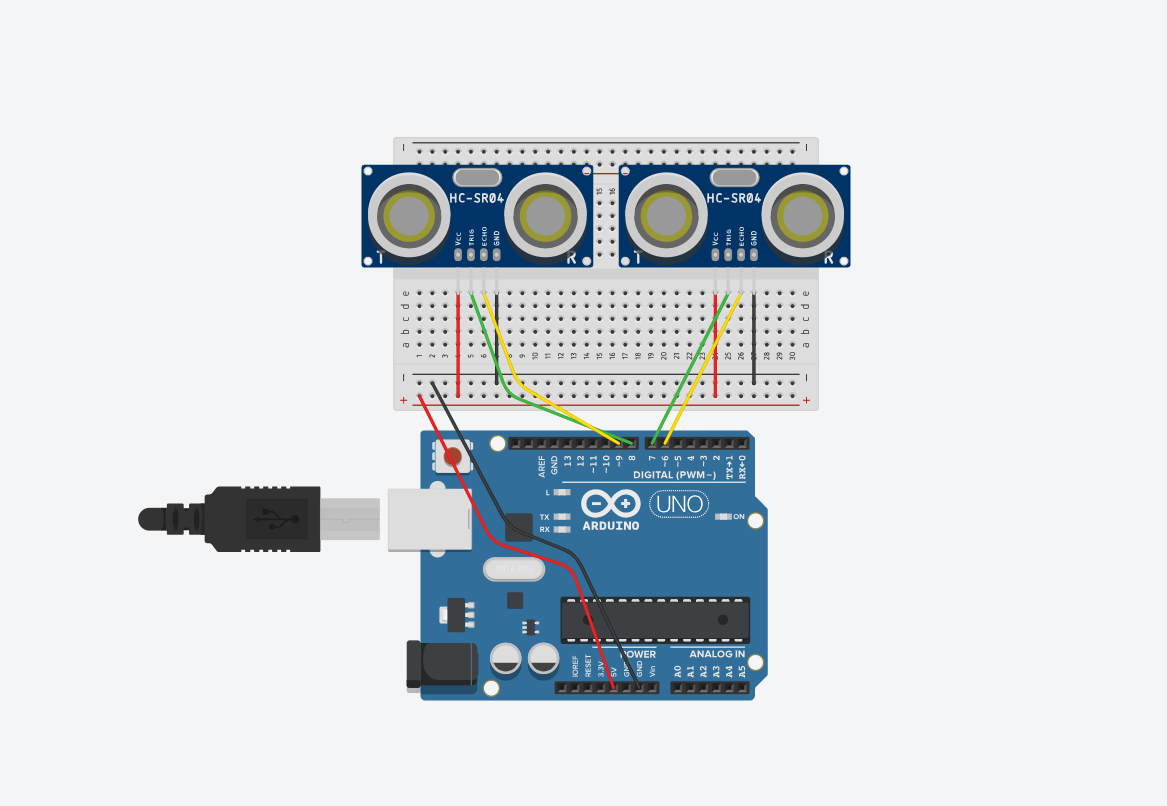
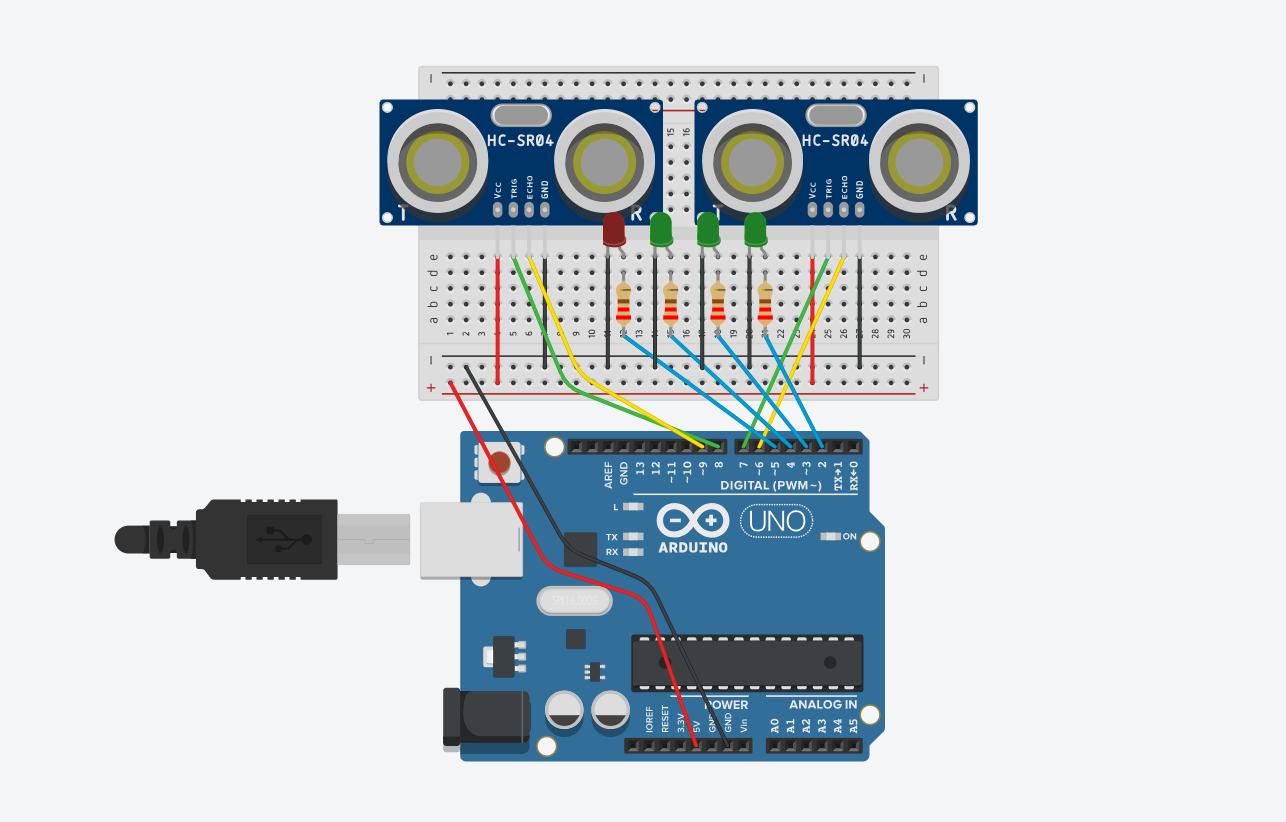
Documentation, sensor code

Changed region(s): [[0.0925, 0.062, 0.7712, 0.9305]]

diff --git a/ArduinoReceptor/src/main.cpp b/ArduinoReceptor/src/main.cpp
@@ -1,18 +1,90 @@
 #include <Arduino.h>
 
-// put function declarations here:
-int myFunction(int, int);
+const int TRIG_PIN1 = 7;
+const int TRIG_PIN2 = 8;
+const int ECHO_PIN1 = 6;
+const int ECHO_PIN2 = 9;
+const int BAUD_RATE = 9600;
+double currVelocity = 0.0;
+double velocityBuffer[10];
+
+void startUltrasonicSensor(int trigPin, int echoPin);
+long readUltrasonicSensor(int trigPin, int echoPin);
+
+/*
+* All these functions from here will need to be implemented in ROS2 system.
+* For now they will be all implemented in arduino.
+*/ 
+int pathPlanning(double leftSensorDistance, double rightSensorDistance);
+double calculateVelocity(double velocityBuffer[]);
+void send2ROS2();
+char * receiveFromROS2();
 
 void setup() {
-  // put your setup code here, to run once:
-  int result = myFunction(2, 3);
+  pinMode(TRIG_PIN1, OUTPUT);
+  pinMode(TRIG_PIN2, OUTPUT);
+  pinMode(ECHO_PIN1, INPUT);
+  pinMode(ECHO_PIN2, INPUT);
+
+  Serial.begin(9600);
 }
 
 void loop() {
-  // put your main code here, to run repeatedly:
+  long leftSensorDistance, rightSensorDistance;
+  leftSensorDistance = readUltrasonicSensor(TRIG_PIN1, ECHO_PIN1);
+  rightSensorDistance = readUltrasonicSensor(TRIG_PIN2, ECHO_PIN2);
+
+  if (leftSensorDistance < 0 || rightSensorDistance < 0) {
+    Serial.println("Error reading sensor");
+  } else {
+    // Send over serial to ros2 system.
+    Serial.print("Left sensor distance: ");
+    Serial.print(leftSensorDistance);
+    Serial.print(" cm, Right sensor distance: ");
+    Serial.print(rightSensorDistance);
+    Serial.println(" cm");
+  }
+
+  // Receive data from ros2 system.
+
+  // This delay needs to be tested 
+  delay(50);
 }
 
-// put function definitions here:
-int myFunction(int x, int y) {
-  return x + y;
+
+void startUltrasonicSensor(int trigPin, int echoPin) {
+  digitalWrite(trigPin, LOW);
+  delayMicroseconds(2);
+  digitalWrite(trigPin, HIGH);
+  delayMicroseconds(10);
+  digitalWrite(trigPin, LOW);
+}
+
+long readUltrasonicSensor(int trigPin, int echoPin) {
+  startUltrasonicSensor(trigPin, echoPin);
+  long duration = pulseIn(echoPin, HIGH);
+  return (duration * 0.034) / 2;
+}
+
+/*
+* All these functions from here will need to be implemented in ROS2 system.
+* For now they will be all implemented in arduino.
+*/ 
+int pathPlanning(double leftSensorDistance, double rightSensorDistance) {
+  // This function will use the leftSensorDistance and rightSensorDistance to calculate the path of the car.
+  return 0;
+}
+
+double calculateVelocity(double velocityBuffer[]) {
+  // This function will use the velocityBuffer to calculate the velocity of the car.
+  return 0;
+}
+
+void send2ROS2() {
+  // This function will send data to the ROS2 system.
+}
+
+char * receiveFromROS2() {
+  // This function will receive data from the ROS2 system.
+  return "Hello";
 }

diff --git a/ArduinoReceptor/docs/Documentation.md b/ArduinoReceptor/docs/Documentation.md
@@ -5,12 +5,43 @@ This software is intended to be used in a RC car, with the objective of achiving
 ![Driverless System](resources\DriverlessSys.png)
 
 Ideas
- - Calculate the threshold of stop based on the velocity
+ - Calculate the threshold of stop based on the velocity. This needs to be done since the car will not stop instantly and turning with bigger speeds will result in bigger radius.
  - Calculate the velocity
  - Calculate the distance in front of the car with some trigonometry sheninigans
 
 ## Breadboard Setup
 Here we can visualize the setup of the sensors on the breadboard. The sensors are connected to the arduino using the following pins:
+- Sensor 1:
+    - Vcc: Arduino 5V Pin
+    - Trigger: Pin I/O 7
+    - Echo: Pin I/O 6
+    - GND: Arduino GND 
+- Sensor 2:
+    - Vcc: Arduino 5V Pin
+    - Trigger: Pin I/O 8
+    - Echo: Pin I/O 9
+    - GND: Arduino GND 
+
 ![Arduino Setup with HC-SR05](resources\ArduinoSetup.png)
 This setup uses an arduino uno and two HC-SR04 sensors.
-The setup should be similiar with arduino due and HC-SR05 sensors.
+The setup should be similiar with arduino due and HC-SR05 sensors. We can observe three green LEDs which indicate where the car should go, and one red LED which indicates that the car should stop. The LEDs are connected to the arduino using the following pins:
+ - Green LEDs: Pin I/O 2, 3, 4
+ - Red LED: Pin I/O 5
+
+## ROS 2 Setup
+
+## Sensor Setup
+(In the working)
+The ideia is to have the sensors be pointed in inverse directions to be able to detect obstacles in front of the car. If the distance is inferior to the intersection distance on both sensors the car should stop. Here is an illustrative image of the sensors:
+
+![Sensor Setup](resources\PaintMaster.png) 
+
+### Demonstration Logic
+Each green LED represents a direction the car should go, the left LED represents the left direction, the middle LED represents the forward direction and the right LED represents the right direction. The red LED represents that the car should stop. Dont forget that while the distance of the sensor is bigger than the intersection distance, the direction the car should turn is inversed.The logic of the car is as follows:
+- If the distance of the left sensor is less than the threshold, the car should turn left or continue to move forward.
+- If the distance of the right sensor is less than the threshold, the car should turn right or continue to move forward.
+- If the distance of both sensors is equal or inferior to the [intersection distance of the sensors](#sensor-setup), this means there is an obstacle in front of the car, now there is multiple possibilities:
+    - If both distances are equal to the threshold, the car can either turn left or right.
+    - If the distance of the left sensor is less than the distance of the right sensor, the car should turn right.
+    - If the distance of the right sensor is less than the distance of the left sensor, the car should turn left.
+    - If the distance of the left sensor is equal to the distance of the right sensor while being under the intersection distance, the car should stop.
